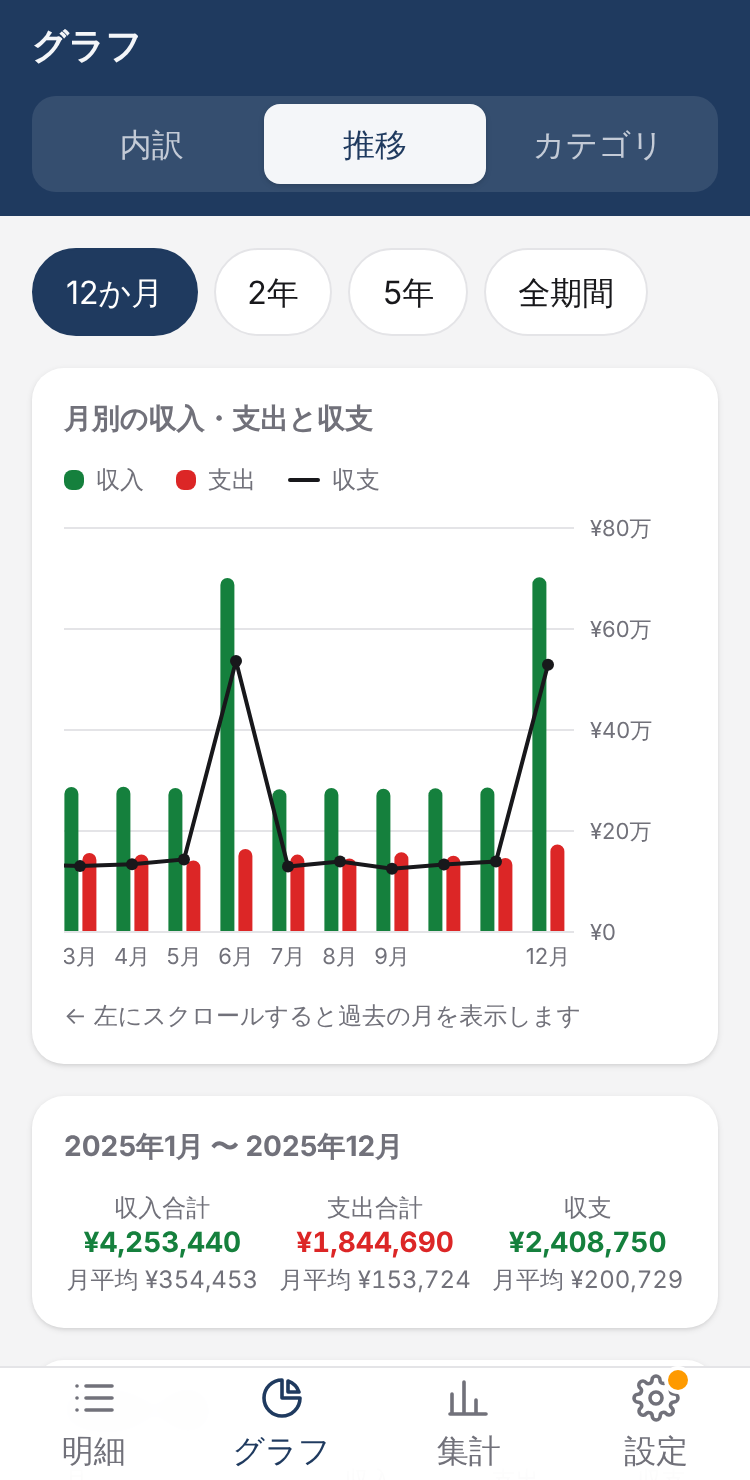
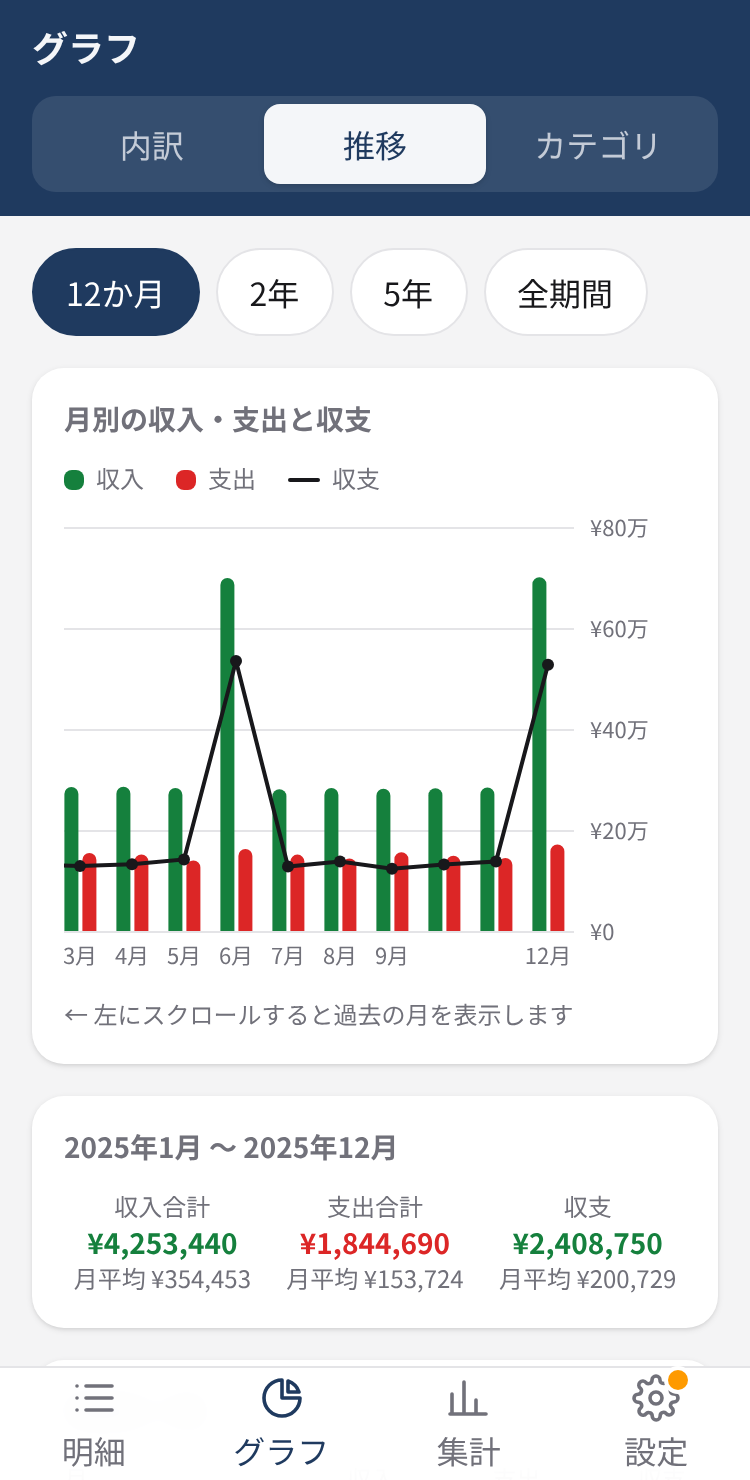
README の画面イメージを日本語フォントで撮り直す
- 撮影環境に日本語フォントがなく、中国語用のフォントで描かれて
  漢字の字形が日本語と違って見えていた（アプリ本体は iPhone のヒラギノで表示されるので影響なし）
- 撮影スクリプトで日本語フォント（ヒラギノ／Noto Sans CJK JP など）を明示し、
  日本語フォントが見つからないときは注意を表示
- 4枚を撮り直し

Claude-Session: https://claude.ai/code/session_01CNfGrsGURyD4rsR331uuy9

diff --git a/README.md b/README.md
@@ -140,7 +140,7 @@ npm run lint             # ESLint
 npm run build            # 本番ビルド（dist/）
 npm run check:data       # 実データの誤コミットチェック
 npm run generate:sample  # 架空のサンプルCSVを sample/ に再生成
-npm run screenshots      # README の画面イメージ（docs/screenshots/）を架空データで撮り直す（要 Playwright）
+npm run screenshots      # README の画面イメージ（docs/screenshots/）を架空データで撮り直す（要 Playwright・日本語フォント）
 ```
 
 - 技術: Vite + React + TypeScript / Tailwind CSS / Dexie.js（IndexedDB）/ PapaParse / TanStack Virtual / Zustand / Recharts / vite-plugin-pwa
